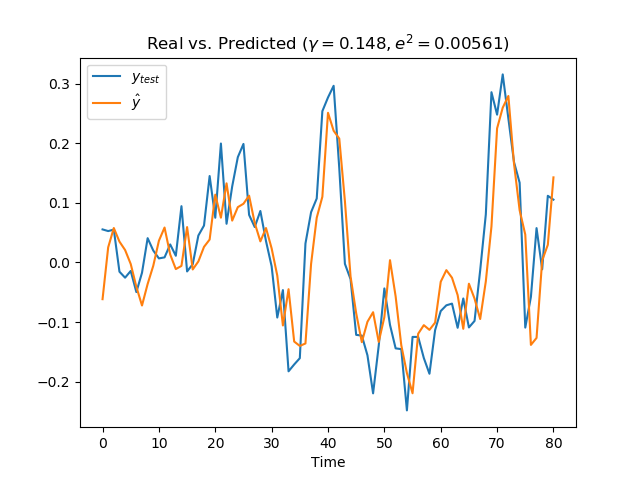
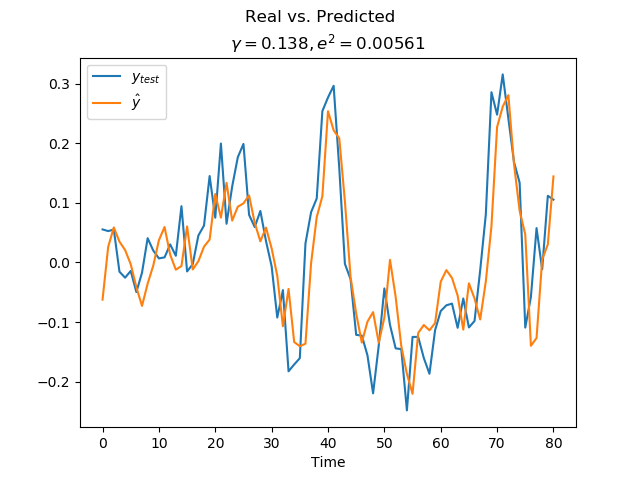
Fix titles

diff --git a/ridgereg.py b/ridgereg.py
@@ -106,8 +106,8 @@ plt.xlabel("$\gamma$")
 plt.ylabel("$e^2$")
 plt.xscale(value="log")
 #plt.legend()
-plt.suptitle("Mean Square Error vs. $\gamma$")
-plt.title("At $\gamma=%.3f, e^2=%.3g$"%(gamma,lowe))
+plt.suptitle("Training Mean Square Error vs. $\gamma$")
+plt.title("min at $\gamma=%.3f, e^2=%.3g$"%(gamma,lowe))
 plt.show()
 
 time = list(range(0,len(yhat)))
@@ -115,5 +115,6 @@ plt.plot(time,ytest,label="$y_{test}$")
 plt.plot(time,yhat,label="$\hat{y}$")
 plt.xlabel("Time")
 plt.legend()
-plt.title("Real vs. Predicted ($\gamma=%.3f,e^2=%.3g$)"%(gamma,e2))
+plt.suptitle("Real vs. Predicted")
+plt.title("$\gamma=%.3f,e^2=%.3g$"%(gamma,e2))
 plt.show()
